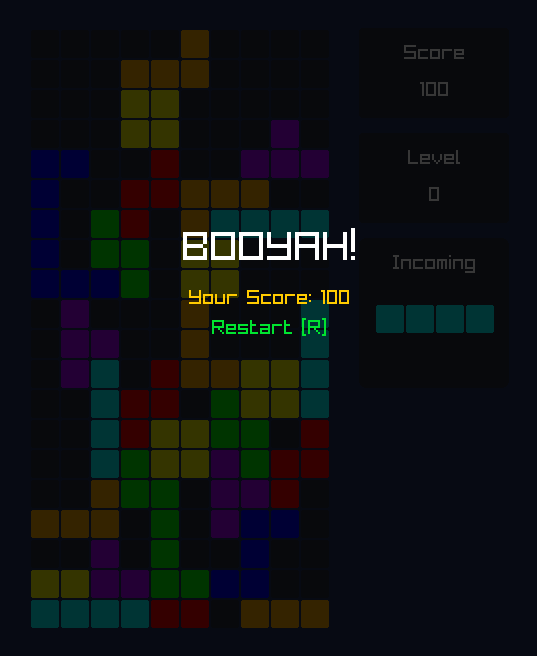
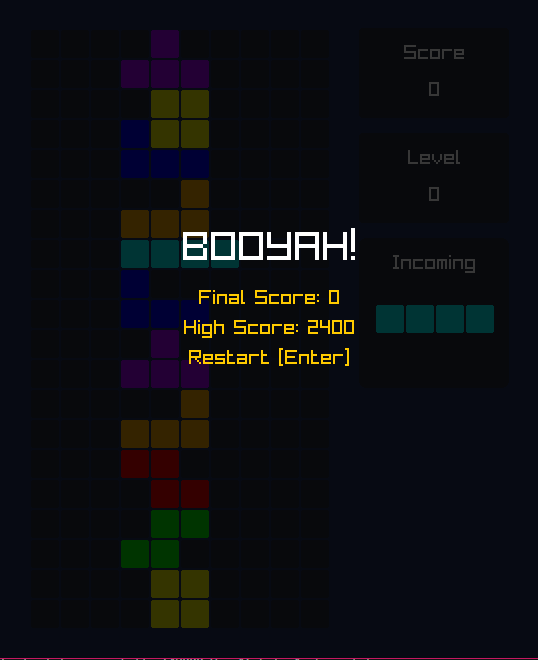
feat(game): add start menu and highscore saving
Now when starting, the user will have a simple menu to interact with.
After the user choose to play, the game will start. When the game is
over, the highscore is saved in a text file.

diff --git a/src/game.cpp b/src/game.cpp
@@ -1,26 +1,23 @@
 #include "../include/game.h"
 
-Game::Game()
-{
-    startNew();
-}
-
 void Game::startNew()
 {
     score = 0;
     level = 0;
     totalClearedRows = 0;
-    gameOver = false;
+    state = GameState::Playing;
     lockTimer = GetTime();
     board = Board();
     tetrominoes = getTetrominoes();
     currentTetromino = getRandomTetromino();
     nextTetromino = getRandomTetromino();
+    if (onStart)
+        onStart();
 }
 
-bool Game::isGameOver()
+GameState Game::getState()
 {
-    return gameOver;
+    return state;
 }
 
 int Game::getScore()
@@ -191,7 +188,7 @@ void Game::lockTetromino()
     {
         if (!board.isWithinBounds(cellPos.row, cellPos.col) || !board.canPlace(cellPos.row, cellPos.col))
         {
-            gameOver = true;
+            endGame();
             return;
         }
         board.setCell(cellPos.row, cellPos.col, currentTetromino.id);
@@ -199,7 +196,7 @@ void Game::lockTetromino()
 
     if (board.isFull())
     {
-        gameOver = true;
+        endGame();
         return;
     }
 
@@ -214,6 +211,37 @@ void Game::lockTetromino()
         onPlace();
     if (rowsCleared > 0 && onClear)
         onClear(rowsCleared);
+}
+
+void Game::endGame()
+{
+    state = GameState::GameOver;
+    if (score > getHighScore())
+        saveHighScore(score);
+    if (onEnd)
+        onEnd();
+}
+
+void Game::ensureSaveFolder()
+{
+    std::filesystem::create_directory("saves");
+}
+
+void Game::saveHighScore(int score)
+{
+    ensureSaveFolder();
+    std::ofstream outFile("saves/highscore.txt");
+    if (outFile)
+        outFile << score;
+}
+
+int Game::getHighScore()
+{
+    std::ifstream inFile("saves/highscore.txt");
+    int score = 0;
+    if (inFile)
+        inFile >> score;
+    return score;
 }
 
 void Game::loadNextTetromino()
@@ -258,9 +286,4 @@ void Game::updateScore(int rowsCleared)
 void Game::updateLevel()
 {
     level = totalClearedRows / 10;
-}
-
-void Game::restart()
-{
-    startNew();
 }

diff --git a/src/main.cpp b/src/main.cpp
@@ -19,10 +19,17 @@ int main()
     audioHandler.loadSound("place", "place.ogg");
     audioHandler.loadSound("clear", "clear.ogg");
 
+    game.onStart = [&]()
+    { audioHandler.playBackgroundMusic("background", 0.3f); };
+    game.onEnd = [&]()
+    {
+        audioHandler.stopBackgroundMusic();
+        audioHandler.playSoundEffect("gameOver", 3.0f);
+    };
     game.onRotate = [&]()
-    { audioHandler.playSoundEffect("rotate", 3.0f); };
+    { audioHandler.playSoundEffect("rotate", 2.0f); };
     game.onPlace = [&]()
-    { audioHandler.playSoundEffect("place", 6.0f); };
+    { audioHandler.playSoundEffect("place", 4.0f); };
     game.onClear = [&](int clearedRows)
     { audioHandler.playSoundEffect("clear", clearedRows * 2.0f); };
 
@@ -33,15 +40,21 @@ int main()
         BeginDrawing();
 
         ClearBackground(BACKGROUND_COLOR);
-        userInterface.drawMainScreen();
 
-        if (game.isGameOver())
+        if (game.getState() == GameState::NotStarted)
         {
-            userInterface.drawGameMenu();
+            userInterface.drawGameMenu("TETRIS", {"High Score: " + to_string(game.getHighScore()), "Start [Enter]"});
+            inputHandler.handleGameMenu();
+        }
+        else if (game.getState() == GameState::GameOver)
+        {
+            userInterface.drawMainScreen();
+            userInterface.drawGameMenu("BOOYAH!", {"Final Score: " + to_string(game.getScore()), "High Score: " + to_string(game.getHighScore()), "Restart [Enter]"});
             inputHandler.handleGameMenu();
         }
         else
         {
+            userInterface.drawMainScreen();
             double droppingSpeed = 0.8 * pow(0.85, game.getLevel());
             if (hasElapsedTime(droppingSpeed, lastUpdateOnMovingDown))
                 game.moveTetrominoDown();

diff --git a/src/userInterface.cpp b/src/userInterface.cpp
@@ -141,22 +141,19 @@ void UserInterface::drawNextTetromino()
     }
 }
 
-void UserInterface::drawGameMenu()
+void UserInterface::drawGameMenu(string label, vector<string> text)
 {
     DrawRectangle(0, 0, windowWidth, windowHeight, OVERLAY_COLOR);
 
     float textSpace = 30;
     float gameOverY = (windowHeight - 4 * fontSize - 4 * textSpace) / 2;
 
-    string gameMenuLabel = "BOOYAH!";
-    int gameMenuLabelWidth = MeasureText(gameMenuLabel.c_str(), fontSize * 2);
-    DrawText(gameMenuLabel.c_str(), (windowWidth - gameMenuLabelWidth) / 2, gameOverY, fontSize * 2, TEXT_COLOR);
+    int labelWidth = MeasureText(label.c_str(), fontSize * 2);
+    DrawText(label.c_str(), (windowWidth - labelWidth) / 2, gameOverY, fontSize * 2, TEXT_COLOR);
 
-    string score = "Final Score: " + to_string(game.getScore());
-    int scoreWidth = MeasureText(score.c_str(), fontSize);
-    DrawText(score.c_str(), (windowWidth - scoreWidth) / 2, gameOverY + textSpace * 2, fontSize, GOLD);
-
-    string askToRestart = "Restart [R]";
-    int askToRestartWidth = MeasureText(askToRestart.c_str(), fontSize);
-    DrawText(askToRestart.c_str(), (windowWidth - askToRestartWidth) / 2, gameOverY + textSpace * 3, fontSize, GREEN);
+    for (size_t i = 0; i < text.size(); i++)
+    {
+        int textWidth = MeasureText(text[i].c_str(), fontSize);
+        DrawText(text[i].c_str(), (windowWidth - textWidth) / 2, gameOverY + textSpace * (i + 2), fontSize, GOLD);
+    }
 }

diff --git a/include/game.h b/include/game.h
@@ -7,7 +7,16 @@
 #include <raylib.h>
 #include <random>
 #include <functional>
+#include <filesystem>
+#include <fstream>
 using namespace std;
+
+enum class GameState
+{
+    NotStarted,
+    Playing,
+    GameOver
+};
 
 class Game
 {
@@ -15,7 +24,7 @@ private:
     int score;
     int level;
     int totalClearedRows;
-    bool gameOver;
+    GameState state = GameState::NotStarted;
     double lockTimer;
     static constexpr double LOCK_DELAY = 0.5;
     Board board;
@@ -31,12 +40,14 @@ private:
     void lockTetromino();
     void updateScore(int rowsCleared);
     void updateLevel();
+    void endGame();
     void loadNextTetromino();
-    void startNew();
+    void ensureSaveFolder();
+    void saveHighScore(int score);
 
 public:
-    Game();
-    bool isGameOver();
+    void startNew();
+    GameState getState();
     int getScore();
     int getLevel();
     Board &getBoard();
@@ -48,8 +59,10 @@ public:
     void rotateTetrominoLeft();
     void rotateTetrominoRight();
     void hardDropTetromino();
-    void restart();
+    int getHighScore();
     function<void()> onRotate;
     function<void()> onPlace;
     function<void(int)> onClear;
+    function<void()> onStart;
+    function<void()> onEnd;
 };

diff --git a/tests/game_integration_test.cpp b/tests/game_integration_test.cpp
@@ -7,6 +7,7 @@ protected:
     void SetUp() override
     {
         game = Game();
+        game.startNew();
     }
 
     Game game;
@@ -48,9 +49,9 @@ protected:
     }
 };
 
-TEST_F(GameIntegrationTest, Initialize)
+TEST_F(GameIntegrationTest, StartNew)
 {
-    EXPECT_FALSE(game.isGameOver());
+    EXPECT_EQ(game.getState(), GameState::Playing);
     EXPECT_EQ(game.getScore(), 0);
     EXPECT_EQ(game.getLevel(), 0);
     EXPECT_GE(game.getCurrentTetromino().id, 0);
@@ -278,17 +279,5 @@ TEST_F(GameIntegrationTest, DetectGameOver)
 
     game.hardDropTetromino();
 
-    EXPECT_TRUE(game.isGameOver());
-}
-
-TEST_F(GameIntegrationTest, Restart)
-{
-    game.restart();
-    EXPECT_FALSE(game.isGameOver());
-    EXPECT_EQ(game.getScore(), 0);
-    EXPECT_EQ(game.getLevel(), 0);
-    EXPECT_GE(game.getCurrentTetromino().id, 0);
-    EXPECT_LE(game.getCurrentTetromino().id, 7);
-    EXPECT_GE(game.getNextTetromino().id, 0);
-    EXPECT_LE(game.getNextTetromino().id, 7);
+    EXPECT_EQ(game.getState(), GameState::GameOver);
 }

diff --git a/src/audioHandler.cpp b/src/audioHandler.cpp
@@ -42,7 +42,10 @@ void AudioHandler::playBackgroundMusic(const string &name, float volume)
 
 void AudioHandler::stopBackgroundMusic()
 {
-    StopMusicStream(*currentMusic);
+    if (currentMusic)
+    {
+        StopMusicStream(*currentMusic);
+    }
 }
 
 void AudioHandler::playSoundEffect(const string &name, float volume)

diff --git a/include/userInterface.h b/include/userInterface.h
@@ -26,6 +26,6 @@ private:
 public:
     UserInterface(Game &game);
     void initWindow();
-    void drawGameMenu();
+    void drawGameMenu(string label, vector<string> text);
     void drawMainScreen();
 };

diff --git a/src/inputHandler.cpp b/src/inputHandler.cpp
@@ -35,8 +35,8 @@ void InputHandler::handleGameMenu()
 
     switch (keyPressed)
     {
-    case KEY_R:
-        game.restart();
+    case KEY_ENTER:
+        game.startNew();
         break;
     }
 }

diff --git a/README.md b/README.md
@@ -19,9 +19,9 @@ Tetris is a classic puzzle game where players stack falling blocks (called tetro
 - The tetromino rotation logic of the game is implemented using the kicktables of [SRS](https://harddrop.com/wiki/SRS) (Super Rotation System)
 
 ## Previews
-| <p align="center">Main Screen</p> | <p align="center">End Screen</p> |
-|---------|---------|
-| ![game main screen](./previews/main-screen.png) | ![game end screen](./previews/end-screen.png) |
+| <p align="center">Start Screen</p> | <p align="center">Main Screen</p> | <p align="center">End Screen</p> |
+|---------|---------|---------|
+|![game start screen](./previews/start-screen.png) | ![game main screen](./previews/main-screen.png) | ![game end screen](./previews/end-screen.png) | 
 
 ## Development
 ### Prerequisites
